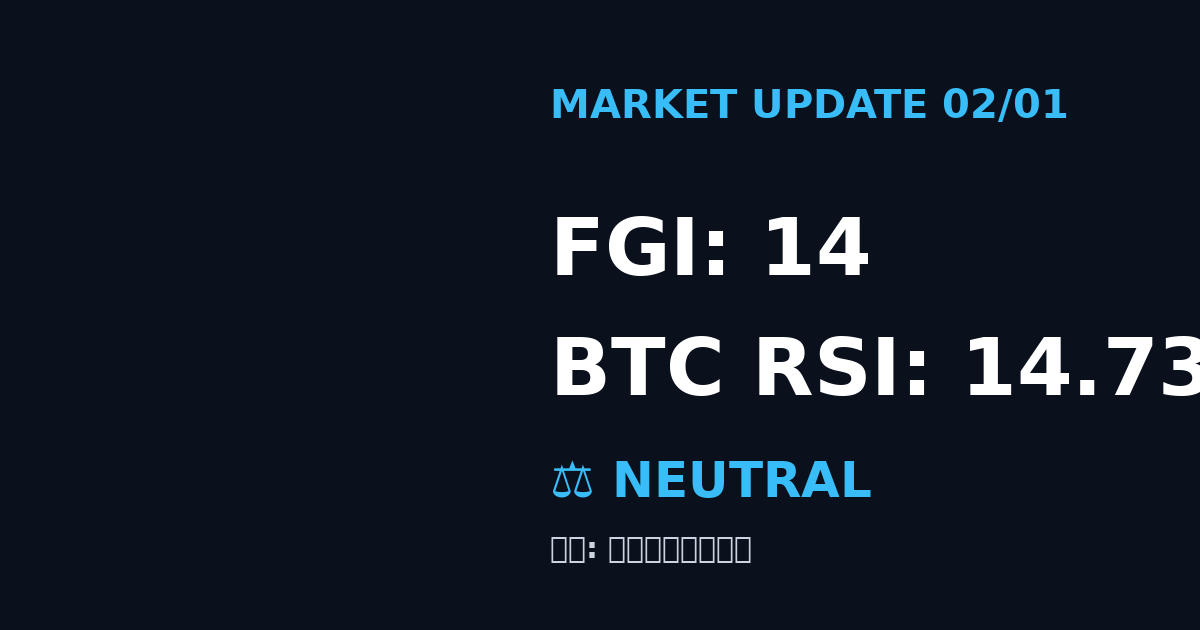
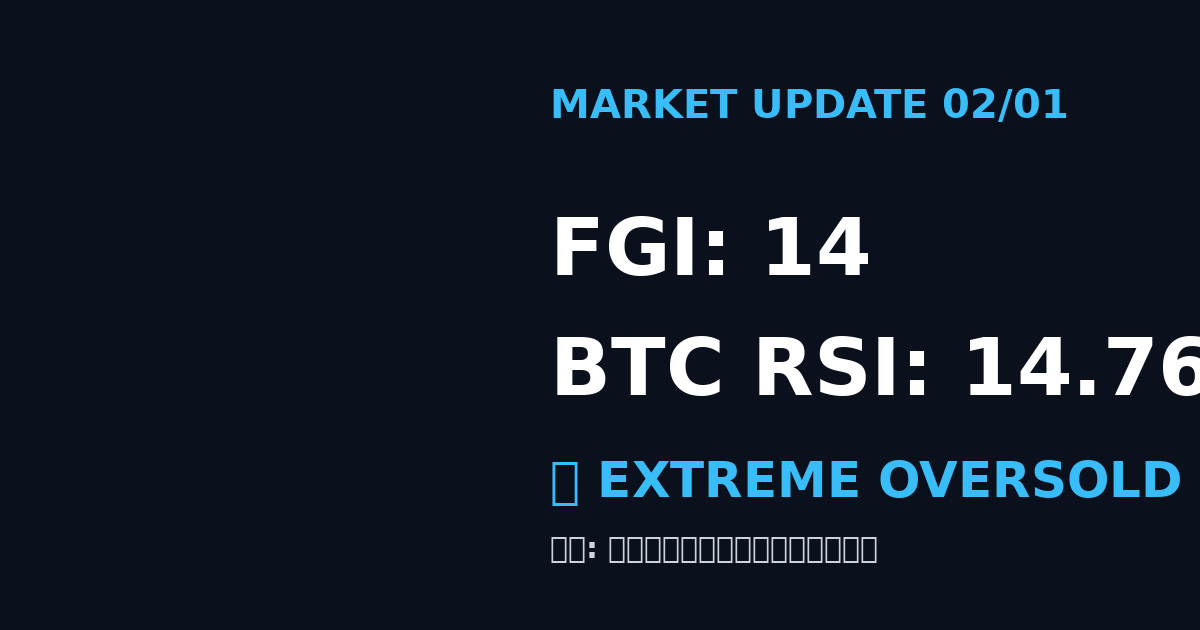
Update SNS assets and daily report [skip ci]

Changed region(s): [[0.4625, 0.7238, 0.9867, 0.8143], [0.6167, 0.8444, 0.74, 0.9048], [0.9558, 0.5127, 1.0, 0.6333]]

diff --git a/share/20260201.html b/share/20260201.html
@@ -1,13 +1,1 @@
-<!doctype html>
-<html lang="ja">
-<head>
-  <meta charset="utf-8">
-  <title>CoinRader 2026-02-01</title>
-  <meta property="og:title" content="CoinRader - 今日の注目 2026-02-01">
-  <meta property="og:url" content="https://coinrader.net/share/20260201.html">
-  <meta property="og:image" content="https://coinrader.net/assets/og/ogp2.png?v=20260201">
-  <meta name="twitter:card" content="summary_large_image">
-  <meta http-equiv="refresh" content="0;url=https://coinrader.net/?v=20260201">
-</head>
-<body></body>
-</html>
+<!doctype html><html lang='ja'><head><meta charset='utf-8'><title>2026-02-01</title><meta http-equiv='refresh' content='0;url=https://coinrader.net/?v=20260201'></head></html>

diff --git a/daily_note_draft.md b/daily_note_draft.md
@@ -1,4 +1,4 @@
 # Market Note 2026-02-01
 
-Last Update: 11:29:22
-- BTC RSI: 14.73
+Last Update: 11:55:54
+- BTC RSI: 14.76
